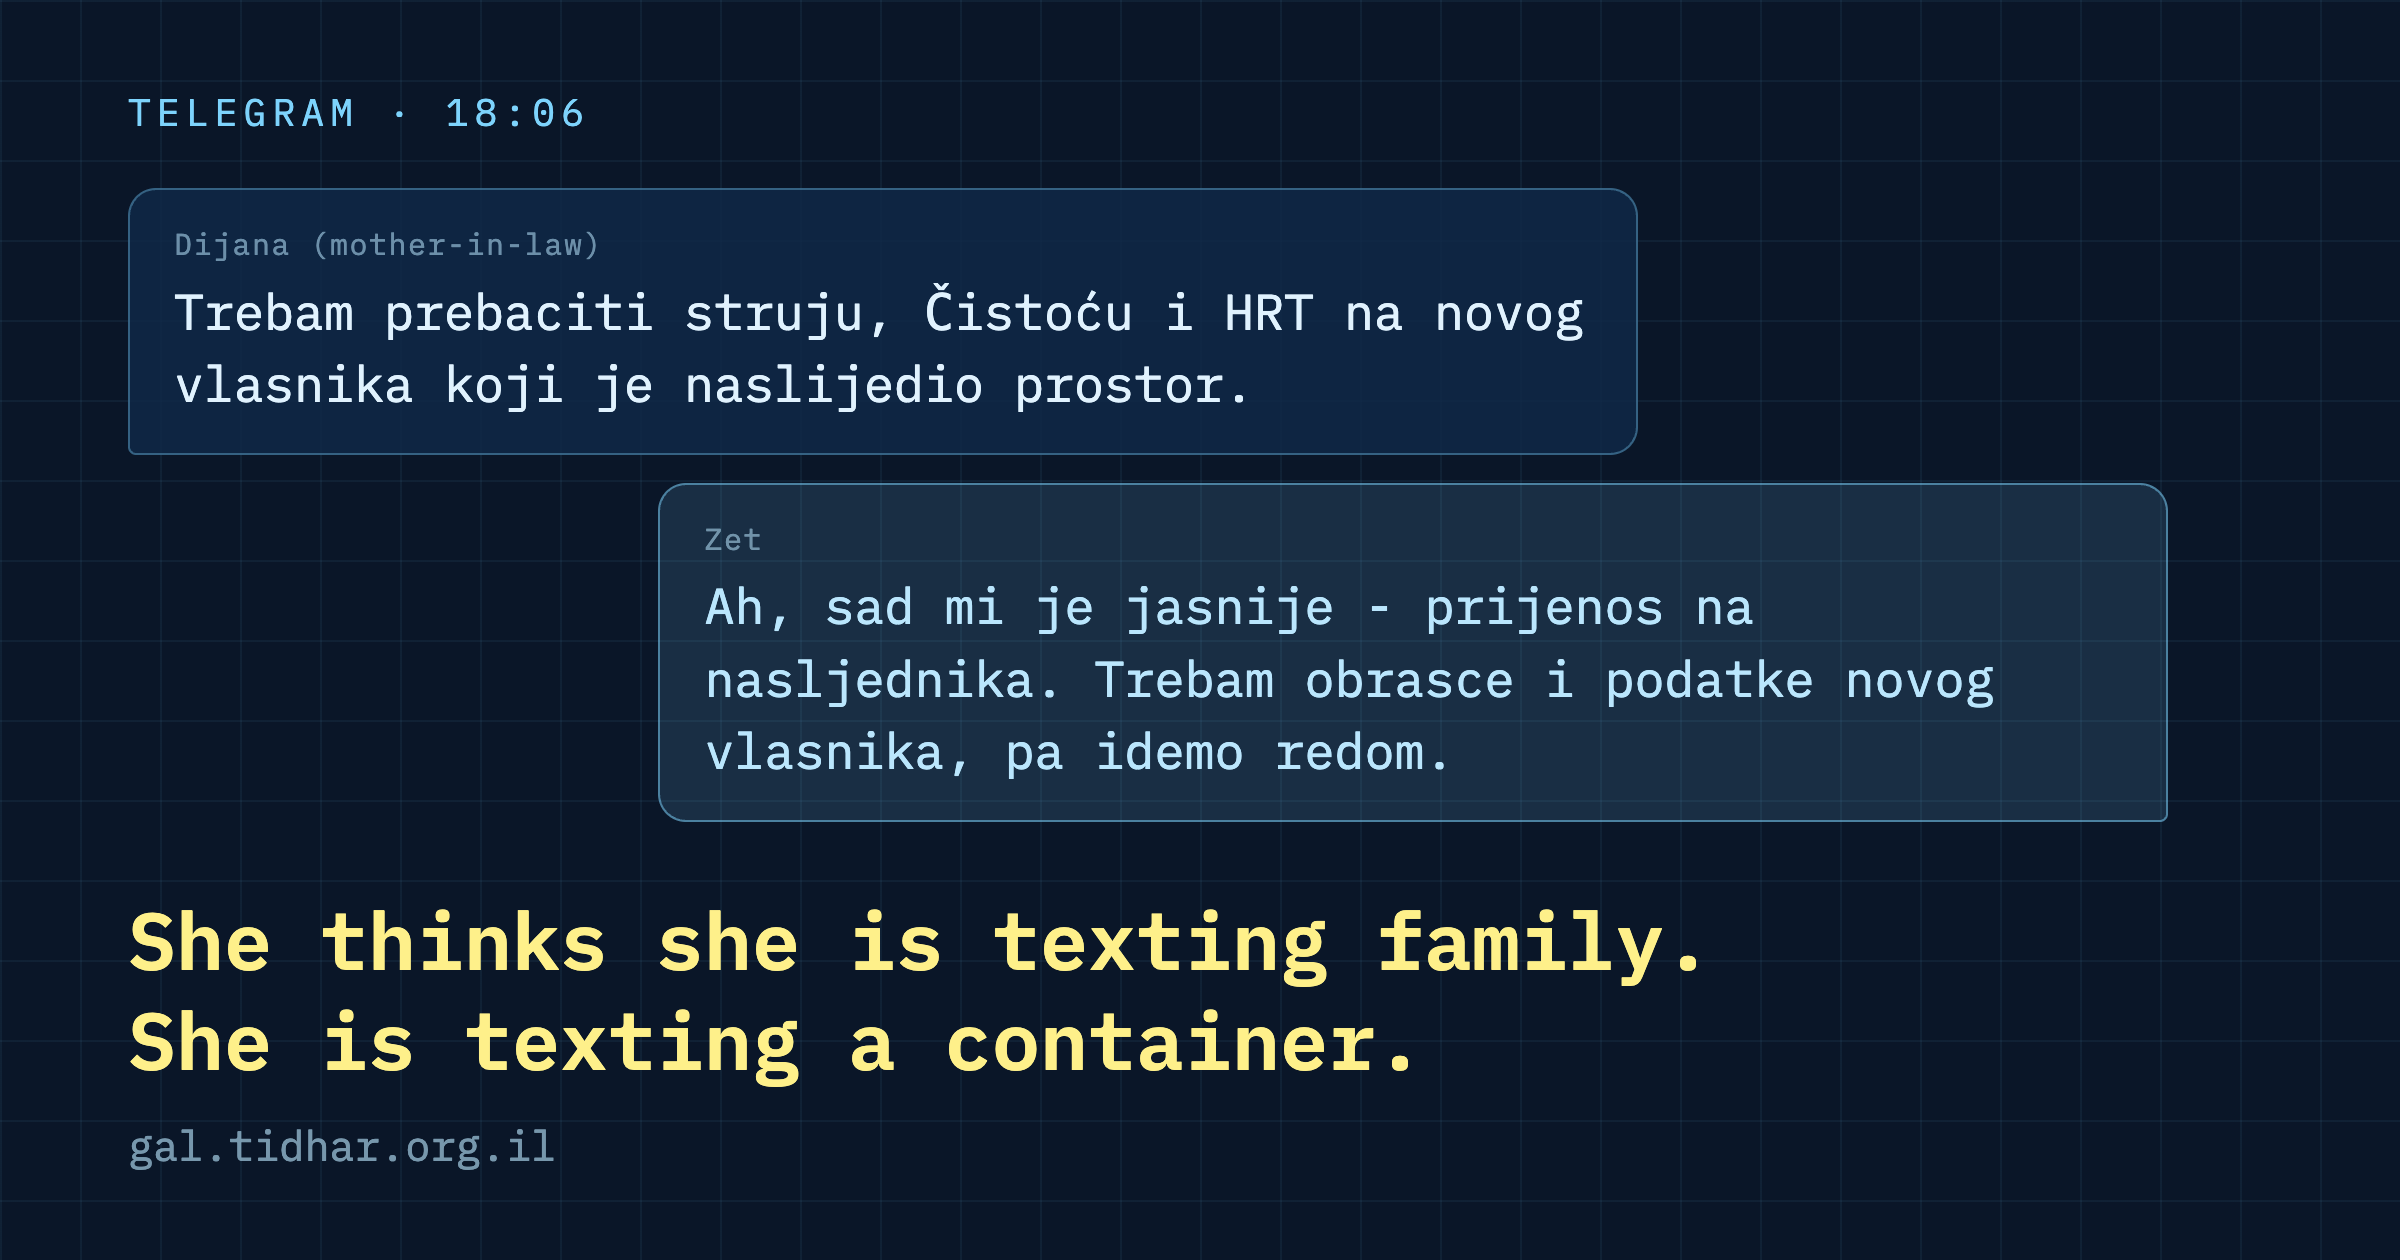
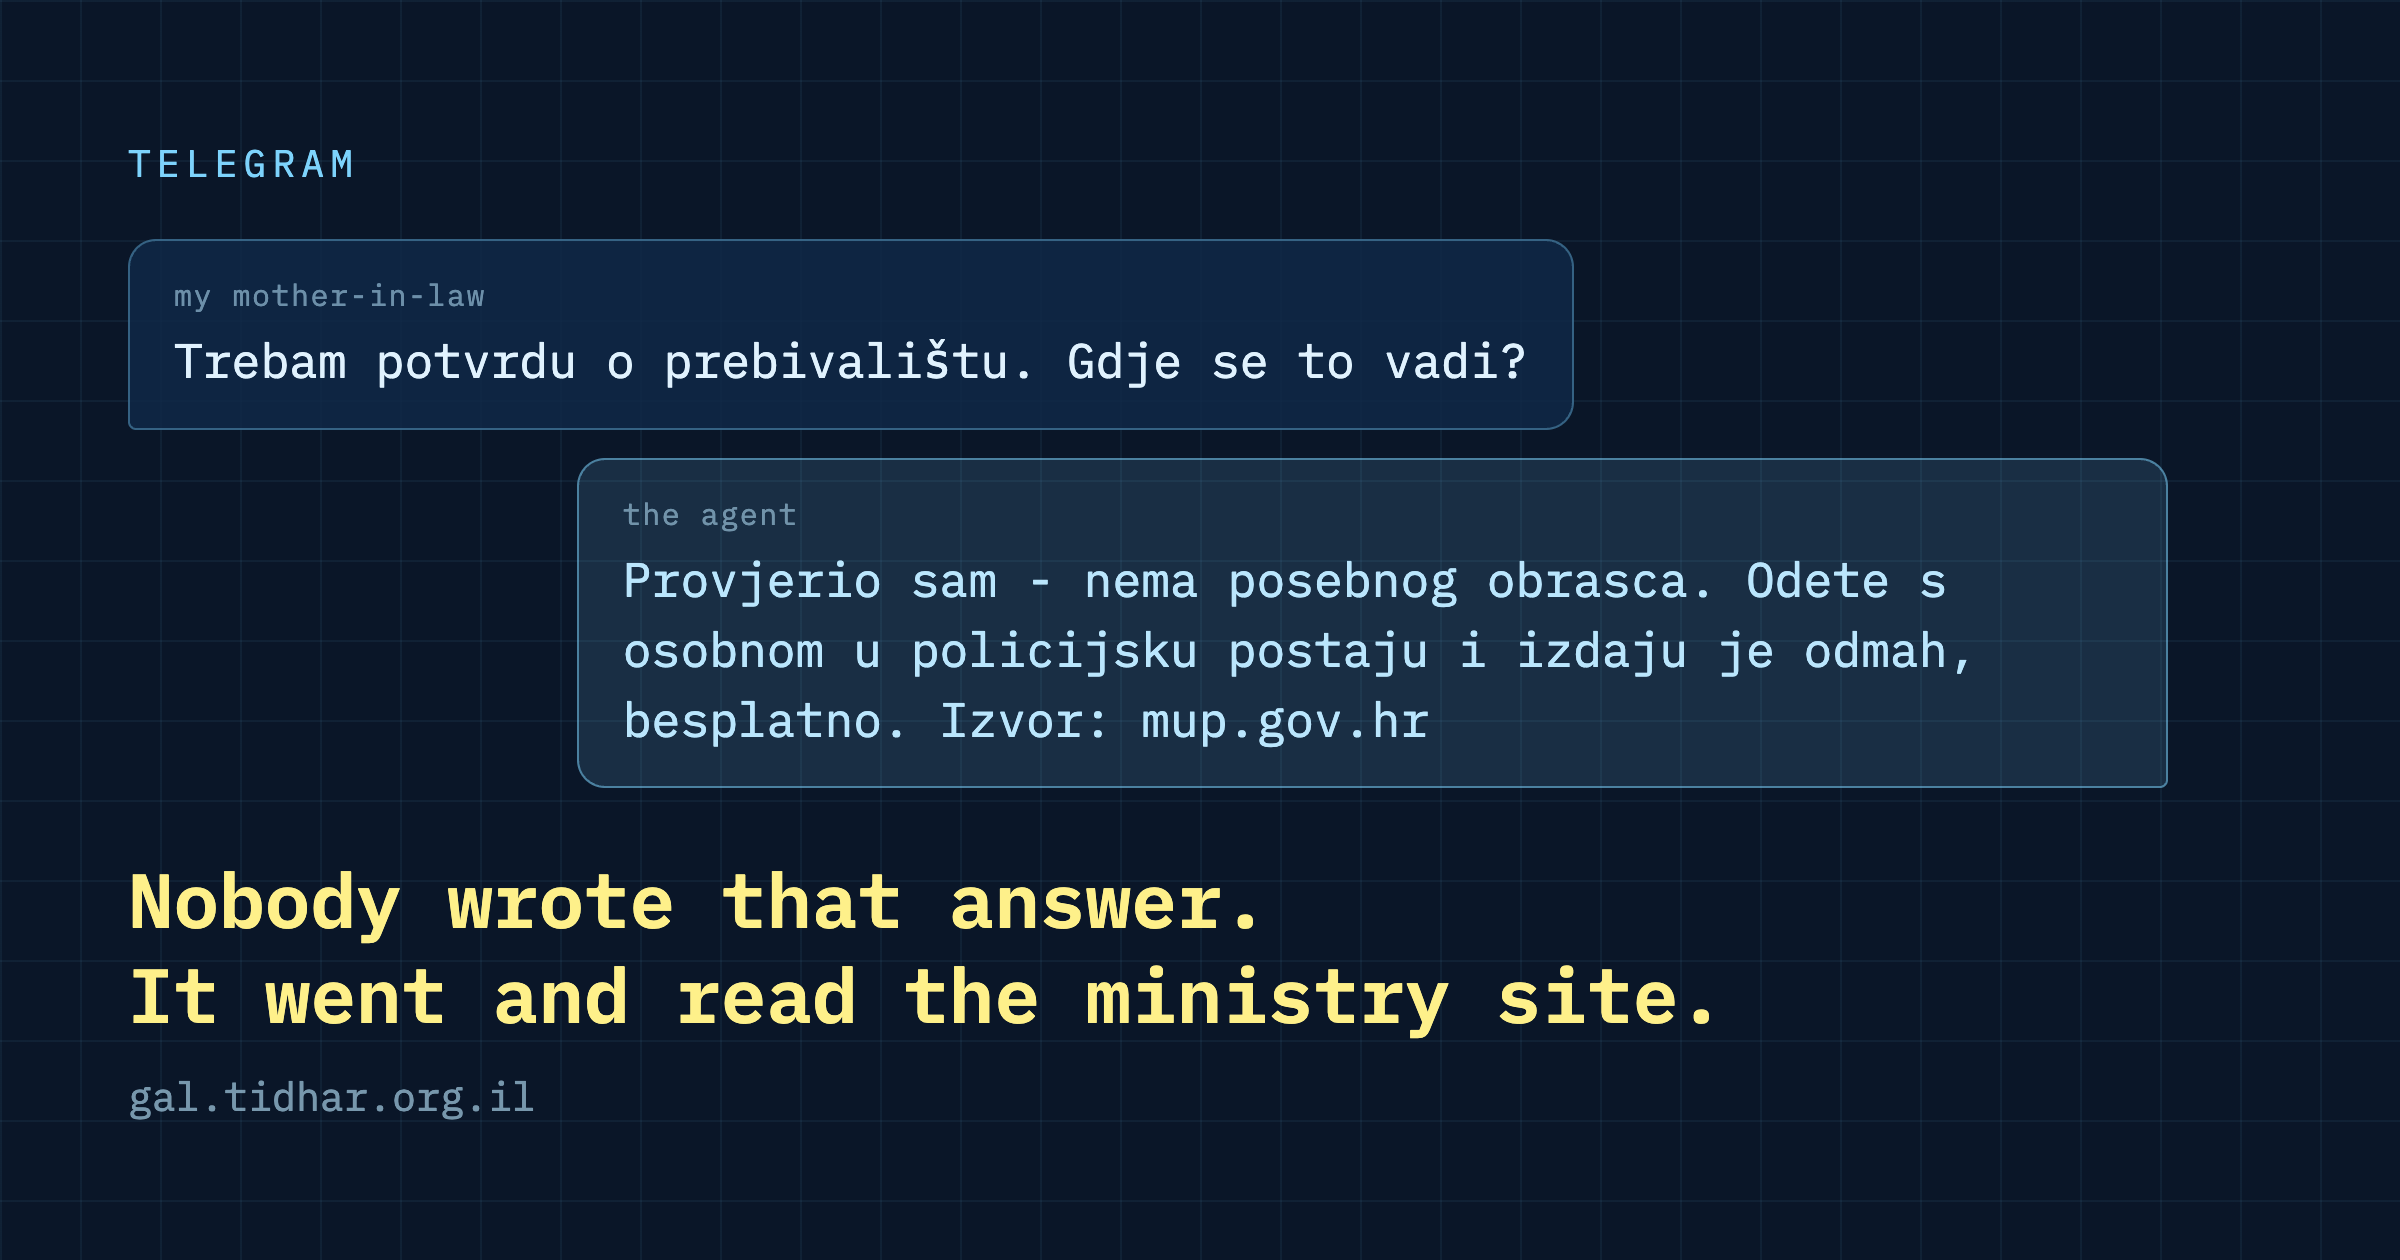
Anonymize the household-agent field note
Removes the specific family circumstance behind the example - inheritance
and property transfer are nobody else's business and identify a real
situation. Generalized to a routine civic document request, which makes the
same point about citing sources and needs no context.

Also drops the relative's name and age from the post, hero image and
metadata.

Claude-Session: https://claude.ai/code/session_01VMAkDNdSK7QN4XjPTYwGWW

Changed region(s): [[0.0312, 0.0619, 0.9062, 0.65], [0.0312, 0.681, 0.7188, 0.9286], [0.1875, 0.0619, 0.25, 0.0929]]

diff --git a/blog/household-agent/index.html b/blog/household-agent/index.html
@@ -4,7 +4,7 @@
   <meta charset="utf-8">
   <meta name="viewport" content="width=device-width, initial-scale=1.0">
   <title>My mother-in-law has a digital version of me. It answers in Croatian. · Gal Tidhar</title>
-  <meta name="description" content="Four agents on a EUR 6 VPS, reachable by Telegram and email, one of them speaking only Croatian to a 70-year-old who hates paperwork. The build, the traps, and what I deliberately did not connect.">
+  <meta name="description" content="Four agents on a EUR 6 VPS, reachable by Telegram and email, one of them speaking only Croatian for a relative who would rather not deal with paperwork. The build, the traps, and what I deliberately did not connect.">
   <meta name="author" content="Gal Tidhar">
   <link rel="canonical" href="https://gal.tidhar.org.il/blog/household-agent/">
   <meta name="theme-color" content="#0a1628">
@@ -12,12 +12,12 @@
   <meta property="og:site_name" content="Gal Tidhar">
   <meta property="og:type" content="article">
   <meta property="og:title" content="My mother-in-law has a digital version of me. It answers in Croatian.">
-  <meta property="og:description" content="Four agents on a EUR 6 VPS. One speaks only Croatian to my mother-in-law. The build, the traps, and what I did not connect.">
+  <meta property="og:description" content="Four agents on a EUR 6 VPS. One speaks only Croatian. The build, the traps, and what I did not connect.">
   <meta property="og:url" content="https://gal.tidhar.org.il/blog/household-agent/">
   <meta property="og:image" content="https://gal.tidhar.org.il/blog/household-agent/og.png">
   <meta property="og:image:width" content="1200">
   <meta property="og:image:height" content="630">
-  <meta property="og:image:alt" content="A Telegram exchange in Croatian between Dijana and the agent, about transferring utilities to an heir">
+  <meta property="og:image:alt" content="A Telegram exchange in Croatian: a question about a civic document, answered with a cited source">
   <meta name="twitter:card" content="summary_large_image">
   <meta name="twitter:title" content="My mother-in-law has a digital version of me. It answers in Croatian.">
   <meta name="twitter:description" content="A household agent that handles Croatian bureaucracy. What it takes, and where it bites.">
@@ -121,14 +121,14 @@
           <div class="role-line">Household agents</div>
           <h1 class="title">My mother-in-law has a digital version of me. It answers in Croatian.</h1>
           <p class="meta-line"><strong>2026-07-29</strong> · Zagreb · NanoClaw + Claude Agent SDK · <strong>EUR 6/month</strong></p>
-          <p class="lead">She sent a Telegram message: <em>"I need to transfer the electricity, the waste collection and the TV licence to the heir who inherited the property."</em> Ninety seconds later she had a complete answer in Croatian, citing the ministry's own page. <strong>I did not write it. I did not know she had asked.</strong></p>
+          <p class="lead">She sent a Telegram message asking how to get a document she needed from a government office. Ninety seconds later she had a complete answer in Croatian, citing the ministry's own page - including the fact that no form exists and it costs nothing. <strong>I did not write it. I did not know she had asked.</strong></p>
         </header>
 
         <div class="prose">
 
         <figure>
-          <img src="hero-v1.png" alt="Telegram exchange in Croatian between Dijana and the agent">
-          <figcaption>The actual exchange. She thinks she is texting family.</figcaption>
+          <img src="hero-v1.png" alt="Telegram exchange in Croatian: a question about a civic document, answered with a cited source">
+          <figcaption>A typical exchange. Question in Croatian, answer in Croatian, source cited.</figcaption>
         </figure>
 
         <h2 class="spec-head">What NanoClaw actually is</h2>
@@ -159,7 +159,7 @@
         <p>I built Telegram first because it is easy. She writes email. Photographing a bill and forwarding it is something she already knew how to do; a chat app was the new thing, not the natural one. If you build this for an older relative, do email early rather than as a nice-to-have.</p>
 
         <h3>2. Citing the source is what earns trust</h3>
-        <p>The agent did not say "there is no form". It said: <em>I checked mup.gov.hr, there is no form, you walk into any police station with your ID and they issue it free, here is the link.</em> That is the difference between a machine that sounds confident and one a 70-year-old will actually rely on. It is a persona instruction, not a model capability.</p>
+        <p>The agent did not say "there is no form". It said: <em>I checked mup.gov.hr, there is no form, you walk into any police station with your ID and they issue it free, here is the link.</em> That is the difference between a machine that sounds confident and one someone will actually rely on. It is a persona instruction, not a model capability.</p>
 
         <h3>3. The AI was not the hard part</h3>
         <p>The hard part was three integration bugs that all fail the same way: <strong>silently, with no log line, indistinguishable from the message never arriving.</strong></p>

diff --git a/blog/household-agent/hero-v1.html b/blog/household-agent/hero-v1.html
@@ -8,18 +8,18 @@ background-image:linear-gradient(rgba(125,211,252,.06) 1px,transparent 1px),line
 background-size:40px 40px;display:flex;flex-direction:column;justify-content:center;padding:56px 64px;color:#e0f2fe}
 .tag{color:#7dd3fc;font-size:19px;letter-spacing:.16em;margin-bottom:26px}
 .chat{display:flex;flex-direction:column;gap:14px;max-width:1020px}
-.b{padding:16px 22px;border-radius:14px;font-size:25px;line-height:1.45;max-width:74%}
+.b{padding:16px 22px;border-radius:14px;font-size:24px;line-height:1.45;max-width:78%}
 .them{background:rgba(15,40,71,.85);border:1px solid rgba(125,211,252,.35);align-self:flex-start;border-bottom-left-radius:4px}
 .me{background:rgba(125,211,252,.13);border:1px solid rgba(125,211,252,.5);align-self:flex-end;border-bottom-right-radius:4px;color:#bae6fd}
 .who{font-size:15px;color:rgba(186,230,253,.55);margin-bottom:5px;letter-spacing:.05em}
-.punch{margin-top:34px;font-size:40px;font-weight:600;line-height:1.25;color:#fef08a}
-.sub{margin-top:14px;font-size:21px;color:rgba(186,230,253,.62)}
+.punch{margin-top:32px;font-size:38px;font-weight:600;line-height:1.25;color:#fef08a}
+.sub{margin-top:14px;font-size:20px;color:rgba(186,230,253,.62)}
 </style></head><body>
-<div class="tag">TELEGRAM · 18:06</div>
+<div class="tag">TELEGRAM</div>
 <div class="chat">
-  <div class="b them"><div class="who">Dijana (mother-in-law)</div>Trebam prebaciti struju, Čistoću i HRT na novog vlasnika koji je naslijedio prostor.</div>
-  <div class="b me"><div class="who">Zet</div>Ah, sad mi je jasnije - prijenos na nasljednika. Trebam obrasce i podatke novog vlasnika, pa idemo redom.</div>
+  <div class="b them"><div class="who">my mother-in-law</div>Trebam potvrdu o prebivalištu. Gdje se to vadi?</div>
+  <div class="b me"><div class="who">the agent</div>Provjerio sam - nema posebnog obrasca. Odete s osobnom u policijsku postaju i izdaju je odmah, besplatno. Izvor: mup.gov.hr</div>
 </div>
-<div class="punch">She thinks she is texting family.<br>She is texting a container.</div>
+<div class="punch">Nobody wrote that answer.<br>It went and read the ministry site.</div>
 <div class="sub">gal.tidhar.org.il</div>
 </body></html>
